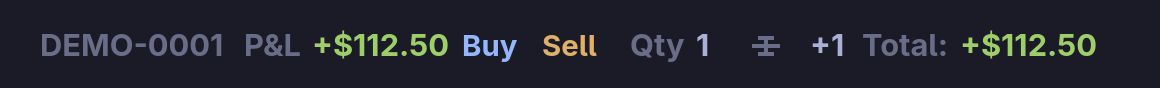
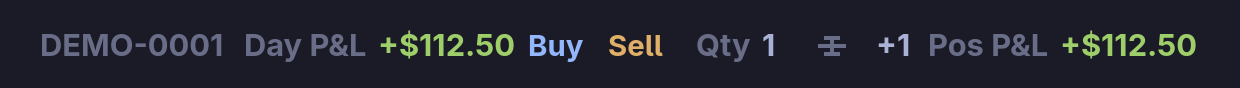
Name the header's P&L parts Day P&L and Pos P&L (#214)
* Name the header's P&L parts Day P&L and Pos P&L

The day's P&L reads "Day P&L +$112.50" and the position's open P&L
"Pos P&L +$37.50", both without a colon, so the two readouts match.
In Preferences › Charts › Header they are Day P&L and Position P&L.
The stored part ids, day_pnl and total, are unchanged, so saved
layouts keep working.

* Retake the Account part screenshot with Day P&L and Pos P&L

Changed region(s): [[0.031, 0.3864, 0.9621, 0.7045]]

diff --git a/src/ui/window/trade.rs b/src/ui/window/trade.rs
@@ -2489,7 +2489,7 @@ pub(super) mod tests {
             for group in ["Trading", "Right", "Order entry", "Chart"] {
                 assert!(groups.iter().any(|title| title == group), "no {group} group in {groups:?}");
             }
-            for row in ["Buy", "Sell", "Long", "Short", "Profit", "Loss", "P&L", "Buy/Sell", "Quantity", "Order template", "Current position", "Total", "Order labels"] {
+            for row in ["Buy", "Sell", "Long", "Short", "Profit", "Loss", "Day P&L", "Buy/Sell", "Quantity", "Order template", "Current position", "Position P&L", "Order labels"] {
                 assert!(rows.iter().any(|title| title == row), "no {row} row in {rows:?}");
             }
             dialog.force_close();
@@ -3708,7 +3708,7 @@ pub(super) mod tests {
             let shown_day = day(&window).expect("the day's P&L");
             let day_class = if shown_day < 0.0 { Some("pnl-loss") } else { Some("pnl-gain") };
             assert_eq!(pane.day_pnl_text(), Some((trading::pnl_text(shown_day, Some("USD")), day_class)));
-            assert_eq!(pane.position_text(), Some(("+1 Total: +$500.00".into(), Some("pnl-gain"))));
+            assert_eq!(pane.position_text(), Some(("+1 Pos P&L +$500.00".into(), Some("pnl-gain"))));
             // A target 10 points up: $500 more than the average, an exit.
             let avg = window.trading.borrow().book.position(&key, "ESZ6").and_then(|held| held.avg).expect("an average");
             session.place(&resting(Side::Sell, OrderKind::Limit, Some(avg + 10.0))).unwrap();
@@ -3721,11 +3721,11 @@ pub(super) mod tests {
             assert!(pill().ends_with("+1.00R"), "{}", pill());
             assert!(order().contains("+1.00R"), "{}", order());
             assert_eq!(pane.day_pnl_text(), Some((chart_pnl::r_text(shown_day, 500.0), day_class)));
-            assert_eq!(pane.position_text(), Some(("+1 Total: +1.00R".into(), Some("pnl-gain"))));
+            assert_eq!(pane.position_text(), Some(("+1 Pos P&L +1.00R".into(), Some("pnl-gain"))));
             chart_pnl::save_amount(&window.store, 250.0);
             window.adopt_pnl_display();
             assert!(pill().ends_with("+2.00R"), "{}", pill());
-            assert_eq!(pane.position_text(), Some(("+1 Total: +2.00R".into(), Some("pnl-gain"))));
+            assert_eq!(pane.position_text(), Some(("+1 Pos P&L +2.00R".into(), Some("pnl-gain"))));
 
             window.show_trading_panel(true);
             let panel = window.trade.panel.borrow().clone().expect("the panel");
@@ -3737,12 +3737,12 @@ pub(super) mod tests {
             chart_pnl::save_display(&window.store, Display::Money);
             window.adopt_pnl_display();
             assert!(pill().ends_with("+$500.00"), "{}", pill());
-            assert_eq!(pane.position_text(), Some(("+1 Total: +$500.00".into(), Some("pnl-gain"))));
+            assert_eq!(pane.position_text(), Some(("+1 Pos P&L +$500.00".into(), Some("pnl-gain"))));
         });
     }
 
     /// The Current position part says the position the chart trades, its
-    /// size signed, and the Total part its open P&L in the day's colours,
+    /// size signed, and the Position P&L part its open P&L in the day's colours,
     /// plain at nothing; the size alone until the P&L has come; and nothing
     /// at all, taking no room, with nothing held or no account.
     #[test]
@@ -3756,9 +3756,9 @@ pub(super) mod tests {
             assert_eq!(pane.position_text(), Some(("+1".into(), None)), "its size until the P&L has come");
             let avg = window.trading.borrow().book.position(&key, "ESZ6").and_then(|held| held.avg).expect("an average");
             for (at, words, class) in [
-                (avg + 2.5, "+1 Total: +$125.00", Some("pnl-gain")),
-                (avg - 5.0, "+1 Total: -$250.00", Some("pnl-loss")),
-                (avg, "+1 Total: +$0.00", None),
+                (avg + 2.5, "+1 Pos P&L +$125.00", Some("pnl-gain")),
+                (avg - 5.0, "+1 Pos P&L -$250.00", Some("pnl-loss")),
+                (avg, "+1 Pos P&L +$0.00", None),
             ] {
                 *session.market.lock().unwrap() = Some(at);
                 window.trade.marked_at.set(None);
@@ -3775,14 +3775,14 @@ pub(super) mod tests {
             *session.market.lock().unwrap() = Some(avg + 1.0);
             window.trade.marked_at.set(None);
             window.mark_to_market();
-            settle(&window, || pane.position_text().is_some_and(|(said, _)| said.starts_with("-2 Total: ")));
+            settle(&window, || pane.position_text().is_some_and(|(said, _)| said.starts_with("-2 Pos P&L ")));
             let open = window.trading.borrow().book.position(&key, "ESZ6").and_then(|held| held.open_pnl).expect("open P&L");
             let class = match open.partial_cmp(&0.0) {
                 Some(std::cmp::Ordering::Greater) => Some("pnl-gain"),
                 Some(std::cmp::Ordering::Less) => Some("pnl-loss"),
                 _ => None,
             };
-            assert_eq!(pane.position_text(), Some((format!("-2 Total: {}", trading::pnl_text(open, Some("USD"))), class)));
+            assert_eq!(pane.position_text(), Some((format!("-2 Pos P&L {}", trading::pnl_text(open, Some("USD"))), class)));
 
             // Flat: nothing at all.
             session.place(&trading::OrderRequest { qty: 2, ..resting(Side::Buy, OrderKind::Market, None) }).unwrap();

diff --git a/src/ui/pane.rs b/src/ui/pane.rs
@@ -276,13 +276,14 @@ pub struct ChartPane {
     /// none, its name beside it once one is picked.
     pub order_template_menu: gtk::MenuButton,
     order_template_label: gtk::Label,
-    /// "P&L" and the account's P&L for the day after it.
+    /// "Day P&L" and the account's P&L for the day after it.
     pub day_part: gtk::Box,
     day_amount: gtk::Label,
     /// The position held, signed.
     pub position_part: gtk::Box,
     position_net: gtk::Label,
-    /// "Total:" and the position's open P&L after it.
+    /// "Pos P&L" and the position's open P&L after it, the word cut short
+    /// to keep the header compact.
     pub total_part: gtk::Box,
     total_amount: gtk::Label,
     /// The size somebody picked for this chart, and from which template;
@@ -620,7 +621,7 @@ impl ChartPane {
         order_template_menu.set_visible(false);
         // Read like the quantity: the word quiet, the money in the profit
         // or loss colour, or plain at nothing either way.
-        let day_word = gtk::Label::new(Some("P&L"));
+        let day_word = gtk::Label::new(Some("Day P&L"));
         day_word.add_css_class("dim-label");
         let day_amount = gtk::Label::new(None);
         let day_part = gtk::Box::new(gtk::Orientation::Horizontal, 5);
@@ -638,7 +639,7 @@ impl ChartPane {
         position_part.set_visible(false);
         // Its open P&L read as the day's is: the word quiet, the money in
         // the profit or loss colour.
-        let total_word = gtk::Label::new(Some("Total:"));
+        let total_word = gtk::Label::new(Some("Pos P&L"));
         total_word.add_css_class("dim-label");
         let total_amount = gtk::Label::new(None);
         let total_part = gtk::Box::new(gtk::Orientation::Horizontal, 5);
@@ -1416,7 +1417,7 @@ impl ChartPane {
     /// The position held, its size signed and its open P&L already written
     /// with whether it is up or down, the P&L `None` until the trading service
     /// has said it; nothing at all, and no room taken, with nothing held.
-    /// The size is the Current position part, the P&L the Total part.
+    /// The size is the Current position part, the P&L the Position P&L part.
     pub fn write_position(&self, held: Option<(i32, Option<(&str, std::cmp::Ordering)>)>) {
         if self.position_part.get_visible() != held.is_some() {
             self.position_part.set_visible(held.is_some());
@@ -1437,7 +1438,7 @@ impl ChartPane {
         signed_colour(&self.total_amount, sign);
     }
 
-    /// What the Current position and Total parts say, one after the other,
+    /// What the Current position and Position P&L parts say, one after the other,
     /// and the colour of the total, for the tests.
     #[cfg(test)]
     pub fn position_text(&self) -> Option<(String, Option<&'static str>)> {
@@ -1446,14 +1447,14 @@ impl ChartPane {
             let mut class = None;
             if self.total_part.get_visible() {
                 class = ["pnl-gain", "pnl-loss"].into_iter().find(|class| self.total_amount.has_css_class(class));
-                words.push_str(" Total: ");
+                words.push_str(" Pos P&L ");
                 words.push_str(&self.total_amount.text());
             }
             (words, class)
         })
     }
 
-    /// What the P&L part says and in which colour, for the tests.
+    /// What the Day P&L part says and in which colour, for the tests.
     #[cfg(test)]
     pub fn day_pnl_text(&self) -> Option<(String, Option<&'static str>)> {
         self.day_part.get_visible().then(|| {

diff --git a/src/header.rs b/src/header.rs
@@ -75,7 +75,7 @@ pub enum Part {
     /// other feeds when there are any. Nothing at all with Yahoo alone:
     /// nothing to choose, and nothing to connect to.
     Feed,
-    /// The account's P&L for the day, closed and open: "P&L +$1,250.00".
+    /// The account's P&L for the day, closed and open: "Day P&L +$1,250.00".
     /// Nothing at all unless the chart has an account to trade on, or
     /// while its trading service has not said.
     DayPnl,
@@ -95,7 +95,7 @@ pub enum Part {
     /// trades.
     Position,
     /// That position's open P&L, the word quiet and the money in the profit
-    /// or loss colour: "Total: +$125.00", "Total: -0.50R". Nothing at all
+    /// or loss colour: "Pos P&L +$125.00", "Pos P&L -0.50R". Nothing at all
     /// until the trading service has said it.
     Total,
     /// The preset resolutions as a row of buttons, on the focused chart only.
@@ -203,12 +203,12 @@ impl Part {
             Part::Template => "Chart template",
             Part::Account => "Account",
             Part::Feed => "Data feed",
-            Part::DayPnl => "P&L",
+            Part::DayPnl => "Day P&L",
             Part::Trade => "Buy/Sell",
             Part::Size => "Quantity",
             Part::OrderTemplate => "Order template",
             Part::Position => "Current position",
-            Part::Total => "Total",
+            Part::Total => "Position P&L",
             Part::Stripe => "Resolutions stripe",
             Part::Title => "Chart title",
             Part::Settings => "Chart settings",
@@ -675,7 +675,8 @@ mod tests {
         assert!(!without.contains(Part::OrderTemplate) && !without.contains(Part::Total), "{without:?}");
         assert_eq!(parse("order_template,total"), Ok(vec![Part::OrderTemplate, Part::Total]));
         assert_eq!(Part::OrderTemplate.label(), "Order template");
-        assert_eq!(Part::Total.label(), "Total");
+        assert_eq!(Part::Total.label(), "Position P&L");
+        assert_eq!(Part::DayPnl.label(), "Day P&L");
         assert_eq!(Part::Trade.label(), "Buy/Sell");
     }
 

diff --git a/site/manual/trading-on-a-chart.md b/site/manual/trading-on-a-chart.md
@@ -25,19 +25,19 @@ state:
   omacharts chart set --symbol ES --resolution 15m
   move 1300 880           # off the chart, so its gear is hidden
 capture: bin/headless-window shot /tmp/account-part.png
-crop: 1160x88+1000+4
+crop: 1240x88+838+4
 -->
-{% include figure.html src="/assets/manual/trading-on-a-chart/account-part.png" alt="A chart's top-right corner: the account, the day's P&L, Buy, Sell, Qty, the order template, the position held and its total" caption="The Account part of a chart holding one contract." %}
+{% include figure.html src="/assets/manual/trading-on-a-chart/account-part.png" alt="A chart's top-right corner: the account, Day P&L, Buy, Sell, Qty, the order template, the position held and Pos P&L" caption="The Account part of a chart holding one contract." %}
 
 | Part | Shows, and does |
 |---|---|
 | **Account** | The account the chart trades on, and its trouble if any, such as *signed out*. Click it to choose another, listed by login. Shown only when there is more than one account |
-| **P&L** | The account's P&L for the day, in the profit or loss colour |
+| **Day P&L** | The account's P&L for the day, such as *Day P&L +$112.50*, in the profit or loss colour |
 | **Buy/Sell** | Buy or sell the chart's quantity at the market. Greyed out with the reason in the tooltip when the chart cannot trade. Taken out of the header, only the buttons go: the keys, the chart menu and the New order dialog still trade |
 | **Qty** | The quantity orders are sent with. Click it for the others on offer and **Edit quantities…** |
 | **Order template** | The chart's [order template](#order-templates), or only its icon with none. Click it to pick another |
 | **Current position** | What the account holds in the contract, signed, such as *+1* |
-| **Total** | That position's open P&L, such as *Total: +$37.50*, in the profit or loss colour |
+| **Position P&L** | That position's open P&L, such as *Pos P&L +$37.50*, in the profit or loss colour |
 
 A chart with no account of its own trades on the default one, and follows it when the default changes. Choosing the default account in the picker leaves it that way.
 

diff --git a/site/manual/charts.md b/site/manual/charts.md
@@ -477,7 +477,7 @@ The header is the line at a chart's top-left and the row centred across its top.
 
 Out of the box the left shows the data feed, the symbol, the resolution and the daily change, and the center the chart title.
 
-With a trading account, the chart's top-right corner also leads with **Account**, **P&L**, **Buy/Sell**, **Quantity**, **Order template**, **Current position** and **Total**, before the gear ([Trading from a chart](/manual/trading-on-a-chart/#the-account-part)). They draw nothing without an account to trade on. A header arranged before **Order template** and **Total** were parts of their own gains each where it showed: the template after **Quantity**, the total after **Current position**.
+With a trading account, the chart's top-right corner also leads with **Account**, **Day P&L**, **Buy/Sell**, **Quantity**, **Order template**, **Current position** and **Position P&L**, before the gear ([Trading from a chart](/manual/trading-on-a-chart/#the-account-part)). They draw nothing without an account to trade on. A header arranged before **Order template** and **Position P&L** were parts of their own gains each where it showed: the template after **Quantity**, the position's P&L after **Current position**.
 
 Edit it in Preferences › Charts › **Header**, or right-click the header or the resolution strip and choose **Edit header…**, which opens the same tab. The **+** beside a section's title adds a part that is in neither section, a part's bin removes it, and dragging a part by its handle reorders it. To move a part to the other section, remove it and add it there.
 

diff --git a/doc/prop-trading/spec.md b/doc/prop-trading/spec.md
@@ -687,9 +687,9 @@ futures 1 to 9. Beside it, the header's **Buy** and **Sell** buy or sell
 the quantity at market, in the theme's Buy and Sell colours (its Blue and
 Amber, the chart's entries' own), and say why
 not, greyed, when the chart cannot trade. Ahead of them, first on the
-header's right, the header's **P&L**: the account's P&L for the day,
-closed and open, marked to every trade ("P&L +$1,250.00" in the profit
-colour, "P&L -$340.50" in the loss colour), and nothing until the broker
+header's right, the header's **Day P&L**: the account's P&L for the day,
+closed and open, marked to every trade ("Day P&L +$1,250.00" in the profit
+colour, "Day P&L -$340.50" in the loss colour), and nothing until the broker
 has said. The P&L, the two and the quantity lead the header's right, and
 are there only while the chart has an account to trade on. With a trading account, Ctrl+B buys the quantity at market,
 Ctrl+S sells it, and Ctrl+F cancels every
